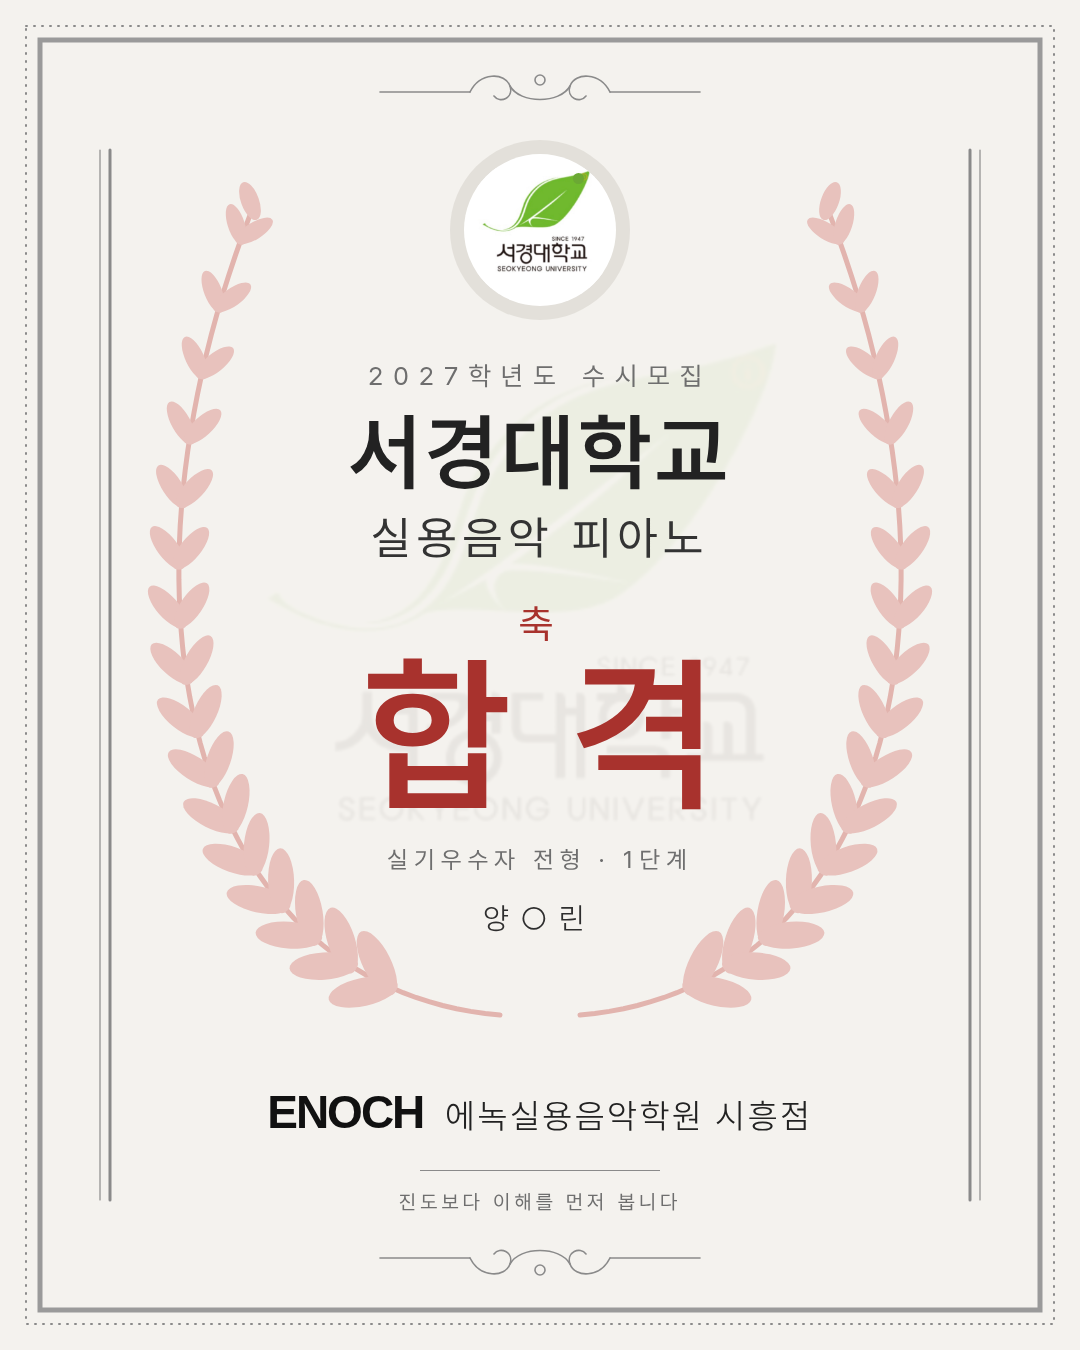
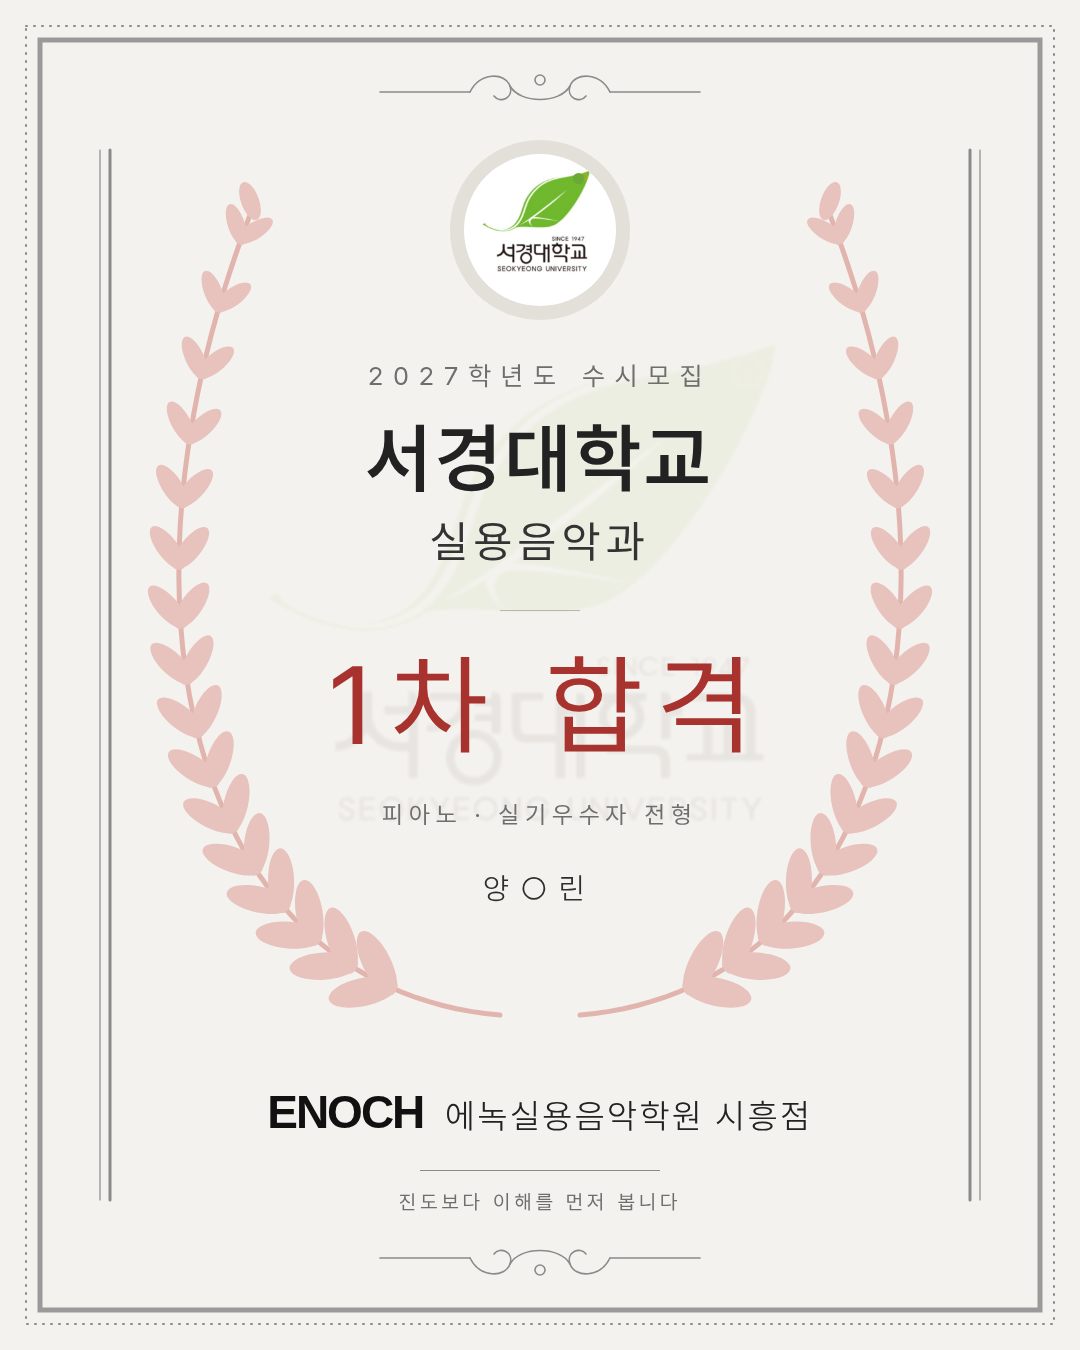
합격 포스터: 서경대학교 실용음악과 1차 합격으로, 1:1 블로그 썸네일 추가
Claude-Session: https://claude.ai/code/session_01HGbZvgMeYrbU7mY8bwfjyb

Changed region(s): [[0.3056, 0.3111, 0.7028, 0.6844]]

diff --git a/output/합격_서경대_피아노/thumb_square.html b/output/합격_서경대_피아노/thumb_square.html
@@ -1,0 +1,34 @@
+<!doctype html><html lang="ko"><head><meta charset="utf-8"><title>합격 축하 서경대 썸네일</title><style>
+@font-face{font-family:P;src:url(../../templates/fonts/Pretendard-Light.woff2);font-weight:300}
+@font-face{font-family:P;src:url(../../templates/fonts/Pretendard-Regular.woff2);font-weight:400}
+@font-face{font-family:P;src:url(../../templates/fonts/Pretendard-Medium.woff2);font-weight:500}
+@font-face{font-family:P;src:url(../../templates/fonts/Pretendard-SemiBold.woff2);font-weight:600}
+*{box-sizing:border-box;margin:0;padding:0}
+.s{position:relative;overflow:hidden;background:#F4F2EE;color:#3A3A3A;font-family:P,sans-serif;word-break:keep-all}
+.a{position:absolute}.c{left:0;right:0;text-align:center}
+</style></head><body>
+<section class="s" id="sq" style="width:1080px;height:1080px">
+<svg class="a" style="left:0;top:0" width="1080" height="1080" viewBox="0 0 1080 1080" fill="none" stroke="#8A8A8A" stroke-linecap="round">
+<rect x="22" y="22" width="1036" height="1036" stroke-width="2" stroke-dasharray="1 7"/>
+<rect x="36" y="36" width="1008" height="1008" stroke-width="5" stroke="#9A9A9A"/>
+<line x1="96" y1="140" x2="96" y2="940" stroke-width="1.2"/><line x1="106" y1="140" x2="106" y2="940" stroke-width="3"/>
+<line x1="984" y1="140" x2="984" y2="940" stroke-width="1.2"/><line x1="974" y1="140" x2="974" y2="940" stroke-width="3"/>
+<g id="fl" stroke-width="1.6"><path d="M380 80 H470"/><path d="M610 80 H700"/><path d="M470 80 C480 60 505 60 510 74 C514 86 500 92 494 84"/><path d="M610 80 C600 60 575 60 570 74 C566 86 580 92 586 84"/><path d="M510 74 C520 92 560 92 570 74"/><circle cx="540" cy="68" r="5"/></g><use href="#fl" transform="translate(0,1080) scale(1,-1)"/>
+</svg>
+<img class="a" src="src/서경대_로고.jpg" style="left:300px;top:280px;width:480px;opacity:.06;mix-blend-mode:multiply">
+<svg class="a" style="left:0;top:0" width="1080" height="1080" viewBox="0 0 1080 1080"><path d="M500.0,850.0 L485.7,848.8 L471.6,847.0 L457.9,844.9 L444.5,842.2 L431.4,839.1 L418.6,835.6 L406.2,831.6 L394.0,827.2 L382.2,822.3 L370.7,817.1 L359.6,811.4 L348.8,805.3 L338.3,798.9 L328.1,792.0 L318.3,784.8 L308.8,777.2 L299.6,769.2 L290.8,760.9 L282.4,752.2 L274.3,743.1 L266.5,733.8 L259.1,724.1 L252.0,714.1 L245.3,703.8 L238.9,693.1 L232.9,682.2 L227.3,671.0 L222.0,659.5 L217.1,647.7 L212.5,635.6 L208.3,623.3 L204.5,610.7 L201.0,597.9 L198.0,584.9 L195.2,571.6 L192.9,558.0 L191.0,544.3 L189.4,530.4 L188.2,516.2 L187.4,501.9 L187.0,487.3 L187.0,472.6 L187.3,457.7 L188.1,442.6 L189.2,427.4 L190.8,412.1 L192.7,396.5 L195.0,380.9 L197.8,365.1 L200.9,349.2 L204.5,333.2 L208.4,317.0 L212.8,300.8 L217.6,284.5 L222.8,268.1 L228.4,251.6 L234.4,235.0 L240.8,218.4 L247.7,201.7 L255.0,185.0" stroke="#E2B4AE" stroke-width="4.5" fill="none" stroke-linecap="round"/><ellipse cx="363.8" cy="829.9" rx="31.6" ry="12.6" transform="rotate(-194.6 363.8 829.9)" fill="#E8C2BD"/><ellipse cx="375.1" cy="803.7" rx="31.6" ry="12.6" transform="rotate(-118.6 375.1 803.7)" fill="#E8C2BD"/><ellipse cx="321.0" cy="804.2" rx="30.7" ry="12.3" transform="rotate(-185.6 321.0 804.2)" fill="#E8C2BD"/><ellipse cx="335.8" cy="780.9" rx="30.7" ry="12.3" transform="rotate(-109.6 335.8 780.9)" fill="#E8C2BD"/><ellipse cx="283.6" cy="772.9" rx="29.7" ry="11.9" transform="rotate(-176.5 283.6 772.9)" fill="#E8C2BD"/><ellipse cx="301.4" cy="752.8" rx="29.7" ry="11.9" transform="rotate(-100.5 301.4 752.8)" fill="#E8C2BD"/><ellipse cx="251.9" cy="736.5" rx="28.7" ry="11.5" transform="rotate(-167.6 251.9 736.5)" fill="#E8C2BD"/><ellipse cx="271.9" cy="720.0" rx="28.7" ry="11.5" transform="rotate(-91.6 271.9 720.0)" fill="#E8C2BD"/><ellipse cx="225.7" cy="695.6" rx="27.8" ry="11.1" transform="rotate(-159.1 225.7 695.6)" fill="#E8C2BD"/><ellipse cx="247.2" cy="682.6" rx="27.8" ry="11.1" transform="rotate(-83.1 247.2 682.6)" fill="#E8C2BD"/><ellipse cx="205.0" cy="650.6" rx="26.8" ry="10.7" transform="rotate(-151.2 205.0 650.6)" fill="#E8C2BD"/><ellipse cx="227.3" cy="641.1" rx="26.8" ry="10.7" transform="rotate(-75.2 227.3 641.1)" fill="#E8C2BD"/><ellipse cx="189.9" cy="602.1" rx="25.9" ry="10.4" transform="rotate(-143.8 189.9 602.1)" fill="#E8C2BD"/><ellipse cx="212.4" cy="595.7" rx="25.9" ry="10.4" transform="rotate(-67.8 212.4 595.7)" fill="#E8C2BD"/><ellipse cx="180.3" cy="550.2" rx="24.9" ry="10.0" transform="rotate(-137.0 180.3 550.2)" fill="#E8C2BD"/><ellipse cx="202.5" cy="546.7" rx="24.9" ry="10.0" transform="rotate(-61.0 202.5 546.7)" fill="#E8C2BD"/><ellipse cx="176.3" cy="495.5" rx="24.0" ry="9.6" transform="rotate(-130.7 176.3 495.5)" fill="#E8C2BD"/><ellipse cx="197.9" cy="494.5" rx="24.0" ry="9.6" transform="rotate(-54.7 197.9 494.5)" fill="#E8C2BD"/><ellipse cx="177.9" cy="438.3" rx="23.0" ry="9.2" transform="rotate(-124.9 177.9 438.3)" fill="#E8C2BD"/><ellipse cx="198.7" cy="439.4" rx="23.0" ry="9.2" transform="rotate(-48.9 198.7 439.4)" fill="#E8C2BD"/><ellipse cx="185.2" cy="378.9" rx="22.1" ry="8.8" transform="rotate(-119.5 185.2 378.9)" fill="#E8C2BD"/><ellipse cx="204.9" cy="381.8" rx="22.1" ry="8.8" transform="rotate(-43.5 204.9 381.8)" fill="#E8C2BD"/><ellipse cx="198.4" cy="317.7" rx="21.1" ry="8.4" transform="rotate(-114.4 198.4 317.7)" fill="#E8C2BD"/><ellipse cx="216.9" cy="322.2" rx="21.1" ry="8.4" transform="rotate(-38.4 216.9 322.2)" fill="#E8C2BD"/><ellipse cx="217.5" cy="255.1" rx="20.2" ry="8.1" transform="rotate(-109.5 217.5 255.1)" fill="#E8C2BD"/><ellipse cx="234.8" cy="260.9" rx="20.2" ry="8.1" transform="rotate(-33.5 234.8 260.9)" fill="#E8C2BD"/><ellipse cx="242.7" cy="191.5" rx="19.2" ry="7.7" transform="rotate(-104.9 242.7 191.5)" fill="#E8C2BD"/><ellipse cx="258.6" cy="198.3" rx="19.2" ry="7.7" transform="rotate(-28.9 258.6 198.3)" fill="#E8C2BD"/><ellipse cx="255.0" cy="172.0" rx="8" ry="18" fill="#E8C2BD" transform="rotate(-20 255.0 172.0)"/><path d="M580.0,850.0 L594.3,848.8 L608.4,847.0 L622.1,844.9 L635.5,842.2 L648.6,839.1 L661.4,835.6 L673.8,831.6 L686.0,827.2 L697.8,822.3 L709.3,817.1 L720.4,811.4 L731.2,805.3 L741.7,798.9 L751.9,792.0 L761.7,784.8 L771.2,777.2 L780.4,769.2 L789.2,760.9 L797.6,752.2 L805.7,743.1 L813.5,733.8 L820.9,724.1 L828.0,714.1 L834.7,703.8 L841.1,693.1 L847.1,682.2 L852.7,671.0 L858.0,659.5 L862.9,647.7 L867.5,635.6 L871.7,623.3 L875.5,610.7 L879.0,597.9 L882.0,584.9 L884.8,571.6 L887.1,558.0 L889.0,544.3 L890.6,530.4 L891.8,516.2 L892.6,501.9 L893.0,487.3 L893.0,472.6 L892.7,457.7 L891.9,442.6 L890.8,427.4 L889.2,412.1 L887.3,396.5 L885.0,380.9 L882.2,365.1 L879.1,349.2 L875.5,333.2 L871.6,317.0 L867.2,300.8 L862.4,284.5 L857.2,268.1 L851.6,251.6 L845.6,235.0 L839.2,218.4 L832.3,201.7 L825.0,185.0" stroke="#E2B4AE" stroke-width="4.5" fill="none" stroke-linecap="round"/><ellipse cx="704.9" cy="803.7" rx="31.6" ry="12.6" transform="rotate(-61.4 704.9 803.7)" fill="#E8C2BD"/><ellipse cx="716.2" cy="829.9" rx="31.6" ry="12.6" transform="rotate(14.6 716.2 829.9)" fill="#E8C2BD"/><ellipse cx="744.2" cy="780.9" rx="30.7" ry="12.3" transform="rotate(-70.4 744.2 780.9)" fill="#E8C2BD"/><ellipse cx="759.0" cy="804.2" rx="30.7" ry="12.3" transform="rotate(5.6 759.0 804.2)" fill="#E8C2BD"/><ellipse cx="778.6" cy="752.8" rx="29.7" ry="11.9" transform="rotate(-79.5 778.6 752.8)" fill="#E8C2BD"/><ellipse cx="796.4" cy="772.9" rx="29.7" ry="11.9" transform="rotate(-3.5 796.4 772.9)" fill="#E8C2BD"/><ellipse cx="808.1" cy="720.0" rx="28.7" ry="11.5" transform="rotate(-88.4 808.1 720.0)" fill="#E8C2BD"/><ellipse cx="828.1" cy="736.5" rx="28.7" ry="11.5" transform="rotate(-12.4 828.1 736.5)" fill="#E8C2BD"/><ellipse cx="832.8" cy="682.6" rx="27.8" ry="11.1" transform="rotate(-96.9 832.8 682.6)" fill="#E8C2BD"/><ellipse cx="854.3" cy="695.6" rx="27.8" ry="11.1" transform="rotate(-20.9 854.3 695.6)" fill="#E8C2BD"/><ellipse cx="852.7" cy="641.1" rx="26.8" ry="10.7" transform="rotate(-104.8 852.7 641.1)" fill="#E8C2BD"/><ellipse cx="875.0" cy="650.6" rx="26.8" ry="10.7" transform="rotate(-28.8 875.0 650.6)" fill="#E8C2BD"/><ellipse cx="867.6" cy="595.7" rx="25.9" ry="10.4" transform="rotate(-112.2 867.6 595.7)" fill="#E8C2BD"/><ellipse cx="890.1" cy="602.1" rx="25.9" ry="10.4" transform="rotate(-36.2 890.1 602.1)" fill="#E8C2BD"/><ellipse cx="877.5" cy="546.7" rx="24.9" ry="10.0" transform="rotate(-119.0 877.5 546.7)" fill="#E8C2BD"/><ellipse cx="899.7" cy="550.2" rx="24.9" ry="10.0" transform="rotate(-43.0 899.7 550.2)" fill="#E8C2BD"/><ellipse cx="882.1" cy="494.5" rx="24.0" ry="9.6" transform="rotate(-125.3 882.1 494.5)" fill="#E8C2BD"/><ellipse cx="903.7" cy="495.5" rx="24.0" ry="9.6" transform="rotate(-49.3 903.7 495.5)" fill="#E8C2BD"/><ellipse cx="881.3" cy="439.4" rx="23.0" ry="9.2" transform="rotate(-131.1 881.3 439.4)" fill="#E8C2BD"/><ellipse cx="902.1" cy="438.3" rx="23.0" ry="9.2" transform="rotate(-55.1 902.1 438.3)" fill="#E8C2BD"/><ellipse cx="875.1" cy="381.8" rx="22.1" ry="8.8" transform="rotate(-136.5 875.1 381.8)" fill="#E8C2BD"/><ellipse cx="894.8" cy="378.9" rx="22.1" ry="8.8" transform="rotate(-60.5 894.8 378.9)" fill="#E8C2BD"/><ellipse cx="863.1" cy="322.2" rx="21.1" ry="8.4" transform="rotate(-141.6 863.1 322.2)" fill="#E8C2BD"/><ellipse cx="881.6" cy="317.7" rx="21.1" ry="8.4" transform="rotate(-65.6 881.6 317.7)" fill="#E8C2BD"/><ellipse cx="845.2" cy="260.9" rx="20.2" ry="8.1" transform="rotate(-146.5 845.2 260.9)" fill="#E8C2BD"/><ellipse cx="862.5" cy="255.1" rx="20.2" ry="8.1" transform="rotate(-70.5 862.5 255.1)" fill="#E8C2BD"/><ellipse cx="821.4" cy="198.3" rx="19.2" ry="7.7" transform="rotate(-151.1 821.4 198.3)" fill="#E8C2BD"/><ellipse cx="837.3" cy="191.5" rx="19.2" ry="7.7" transform="rotate(-75.1 837.3 191.5)" fill="#E8C2BD"/><ellipse cx="825.0" cy="172.0" rx="8" ry="18" fill="#E8C2BD" transform="rotate(20 825.0 172.0)"/></svg>
+<div class="a" style="left:465px;top:115px;width:150px;height:150px;border-radius:50%;background:#E3E0DA"></div>
+<div class="a" style="left:477px;top:127px;width:126px;height:126px;border-radius:50%;background:#fff;overflow:hidden">
+<img src="src/서경대_로고.jpg" style="position:absolute;left:11px;top:12px;width:104px">
+<div style="position:absolute;left:90px;top:16px;width:10px;height:10px;border-radius:50%;background:#6BA834"></div>
+</div>
+<div class="a c" style="top:292px;font-size:22px;letter-spacing:9px;color:#6E6E6E">2027학년도 수시모집</div>
+<div class="a c" style="top:335px;font-size:68px;font-weight:600;letter-spacing:4px;color:#222;line-height:1">서경대학교</div>
+<div class="a c" style="top:425px;font-size:38px;font-weight:400;letter-spacing:6px;color:#333;line-height:1">실용음악과</div>
+<div class="a" style="left:505px;width:70px;top:495px;height:1px;background:#B9B4AC"></div>
+<div class="a c" style="top:525px;font-size:98px;font-weight:500;letter-spacing:14px;padding-left:14px;line-height:1;color:#A8322D">1차 합격</div>
+<div class="a c" style="top:655px;font-size:21px;letter-spacing:6px;color:#6E6E6E">피아노 · 실기우수자 전형</div>
+<div class="a c" style="top:710px;font-size:27px;font-weight:300;letter-spacing:12px;color:#2E2E2E">양○린</div>
+<div class="a c" style="top:885px;display:flex;justify-content:center;align-items:baseline;gap:18px"><span style="font-family:'Helvetica Neue',Arial,'Liberation Sans',sans-serif;font-weight:700;font-size:38px;letter-spacing:-1.5px;color:#111">ENOCH</span><span style="font-size:28px;font-weight:300;letter-spacing:3px;color:#222">에녹실용음악학원 시흥점</span></div>
+<div class="a c" style="top:945px;font-size:17px;letter-spacing:4px;color:#8A8A8A">진도보다 이해를 먼저 봅니다</div>
+</section></body></html>

diff --git a/output/합격_서경대_피아노/poster_laurel.html b/output/합격_서경대_피아노/poster_laurel.html
@@ -32,12 +32,12 @@
 <div style="position:absolute;left:109px;top:19px;width:11px;height:11px;border-radius:50%;background:#6BA834"></div>
 </div>
 <div class="a c" style="top:360px;font-size:26px;letter-spacing:10px;color:#6E6E6E">2027학년도 수시모집</div>
-<div class="a c" style="top:410px;font-size:84px;font-weight:600;letter-spacing:4px;color:#222;line-height:1">서경대학교</div>
-<div class="a c" style="top:515px;font-size:46px;font-weight:400;letter-spacing:6px;color:#333;line-height:1">실용음악 피아노</div>
-<div class="a c" style="top:600px;font-size:40px;font-weight:400;letter-spacing:8px;color:#A8322D">축</div>
-<div class="a c" style="top:650px;font-size:170px;font-weight:600;letter-spacing:60px;padding-left:60px;line-height:1;color:#A8322D">합격</div>
-<div class="a c" style="top:845px;font-size:24px;letter-spacing:6px;color:#6E6E6E">실기우수자 전형 · 1단계</div>
-<div class="a c" style="top:900px;font-size:30px;font-weight:300;letter-spacing:12px;color:#2E2E2E">양○린</div>
+<div class="a c" style="top:420px;font-size:76px;font-weight:600;letter-spacing:4px;color:#222;line-height:1">서경대학교</div>
+<div class="a c" style="top:520px;font-size:44px;font-weight:400;letter-spacing:6px;color:#333;line-height:1">실용음악과</div>
+<div class="a" style="left:500px;width:80px;top:610px;height:1px;background:#B9B4AC"></div>
+<div class="a c" style="top:650px;font-size:110px;font-weight:500;letter-spacing:16px;padding-left:16px;line-height:1;color:#A8322D">1차 합격</div>
+<div class="a c" style="top:800px;font-size:24px;letter-spacing:6px;color:#6E6E6E">피아노 · 실기우수자 전형</div>
+<div class="a c" style="top:870px;font-size:30px;font-weight:300;letter-spacing:12px;color:#2E2E2E">양○린</div>
 <div class="a c" style="top:1085px;display:flex;justify-content:center;align-items:baseline;gap:22px"><span style="font-family:'Helvetica Neue',Arial,'Liberation Sans',sans-serif;font-weight:700;font-size:46px;letter-spacing:-2px;color:#111">ENOCH</span><span style="font-size:34px;font-weight:300;letter-spacing:3px;color:#222">에녹실용음악학원 시흥점</span></div>
 <div class="a" style="left:420px;width:240px;top:1170px;height:1px;background:#8A8A8A"></div>
 <div class="a c" style="top:1190px;font-size:20px;letter-spacing:4px;color:#6E6E6E">진도보다 이해를 먼저 봅니다</div>
